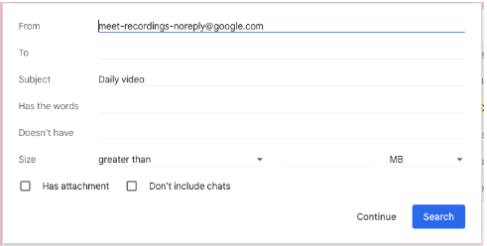
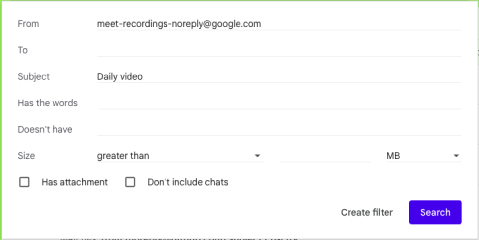
Docs manual update

diff --git a/README.md b/README.md
@@ -16,8 +16,8 @@ The result of these few clicks is that **Google Meet** is started, with a screen
 2. `User` opens the meeting from a **Google Calendar** event *"[Name] - Daily video"* with `"Join with Google Meet"`
     1. Optionally, add an additional recap for the particular day to the event title
 3. The **Google Meet** event and recording is started with:
-    1. **Google Chrome Bookmark** (manually by the `User`) via [process.js](https://github.com/troxohq/google-meet-auto-recording/blob/main/process.js)
-    2. **Google Chrome Addon** (automatically) via [loader.js](https://github.com/troxohq/google-meet-auto-recording/blob/main/loader.js)
+    1. **Google Chrome Bookmark** (manually by the `User`) via [bookmark.js](https://github.com/troxohq/google-meet-auto-recording/blob/main/bookmark.js)
+    2. **Google Chrome Addon** (automatically) via [addon.js](https://github.com/troxohq/google-meet-auto-recording/blob/main/addon.js)
 4. The User joins the **Google Meet** event and recording and transcribing are automatically started
    1. The User selects which screen to present in the **Google Meet**
 5. **Google Meet** stores the recording and transcription files to **Google Drive**
@@ -36,15 +36,15 @@ Create a recurring Google Calendar event (each workday at e.g. 17:00) with a tit
 ### 2. Recording automation
 
 #### Option 1: Manually start any recording
-Add the content of the script [process.js](https://github.com/troxohq/google-meet-auto-recording/blob/main/process.js) to the
+Add the content of the script [bookmark.js](https://github.com/troxohq/google-meet-auto-recording/blob/main/bookmark.js) to the
 **Google Chrome** bookmark (i.e. bookmarklet)
-  * Leave `autoStartRecordingFor` as `undefined` at [process.js#L2](https://github.com/troxohq/google-meet-auto-recording/blob/main/process.js#L2) to allow recording of any Google Calendar event, not only e.g. *"Daily video"*
+  * Leave `recordOnlyIfIncludes` as `undefined` at [bookmark.js#L2](https://github.com/troxohq/google-meet-auto-recording/blob/main/bookmark.js#L2) to allow recording of any Google Calendar event, not only e.g. *"Daily video"*
 
 ![Chrome Bookmark](img/chrome-bookmark.png)
 
 #### Option 2: Automatically start a *"Daily video"* recording
-Add the content of the script [loader.js](https://github.com/troxohq/google-meet-auto-recording/blob/main/loader.js) to the **Chrome Addon** that injects and executes JavaScript code:
-  * Configure `autoStartRecordingFor` at [loader.js#L1](https://github.com/troxohq/google-meet-auto-recording/blob/main/loader.js#L1) to match the Google Calendar event title, e.g. *"Daily video"*
+Add the content of the script [addon.js](https://github.com/troxohq/google-meet-auto-recording/blob/main/addon.js) to the **Chrome Addon** that injects and executes JavaScript code:
+  * Configure `recordOnlyIfIncludes` at [addon.js#L1](https://github.com/troxohq/google-meet-auto-recording/blob/main/addon.js#L1) to match the Google Calendar event title, e.g. *"Daily video"*
   * Addons that can be used:
      * [Chrome Addon - User JavaScript and CSS](https://chrome.google.com/webstore/detail/user-javascript-and-css/nbhcbdghjpllgmfilhnhkllmkecfmpld)
      * [JScript tricks](https://chrome.google.com/webstore/detail/jscript-tricks/odialddippdmebbfbflcneemfdglimod)
@@ -60,7 +60,7 @@ The **Google Meet** video and transcription recordings are stored in a `User` **
 ![](img/google-drive-folder-permissions.png)
 
 ### 4. Slack notification receiver
-Configure **Slack** `#channel` => "Integrations" => "Send emails to this channel" to receive the emails to pass them through as messages to a channel.
+Configure (if not already defined) **Slack** `#channel` => "Integrations" => "Send emails to this channel" to receive the emails to pass them through as messages to a channel.
 
 ![](img/slack-integrations-emails.png)
 
@@ -75,9 +75,9 @@ Configure Gmail to forward the recording (and transcription) emails to Slack inb
 2. Click `Create a new filter`
 3. Set `From` to "meet-recordings-noreply@google.com"
 4. Set `Subject` to "Daily video"
-5. Click `Continue`
+5. Click `Create filter`
 6. Set `Forward it to` to the email address connected to the **Slack** `#channel`
-7. Check optionally `Skip the Inbox (Archive it)`, `Mark as read`, or `Apply the label:`
+7. Optionally  check `Mark as read` and/or both `Skip the Inbox (Archive it)`, and `Apply the label:` to organize these emails
 
 ![](img/gmail-filter-source.png)
 
@@ -88,7 +88,6 @@ Configure Gmail to forward the recording (and transcription) emails to Slack inb
 ![](img/gmail-forwarding-confirmation.png)
 
 ![](img/gmail-forwarding-verification.png)
-
 
 The target forwarding email needs to be approved by clicking the link in from the confirmation message sent to **Slack** `#channel`.
 
